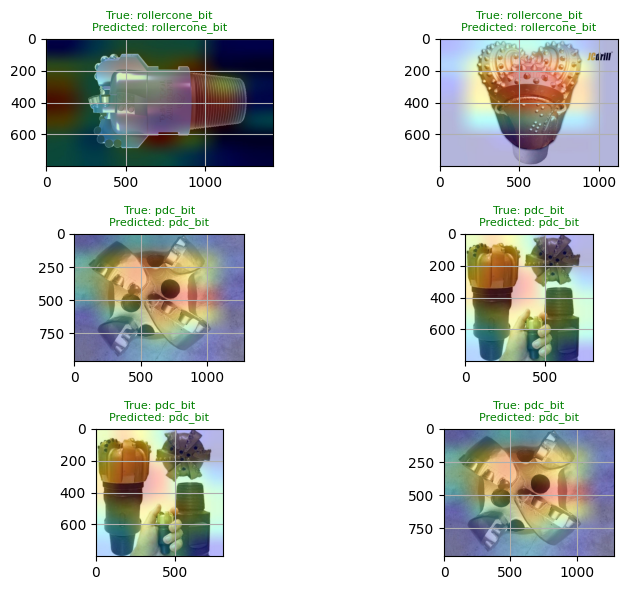
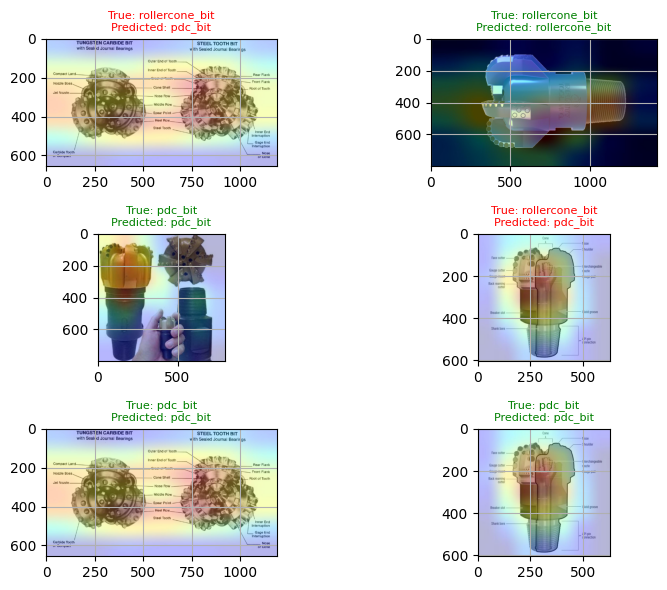
add skit

diff --git a/neural_network_model/supervise_learning.py b/neural_network_model/supervise_learning.py
@@ -603,12 +603,12 @@ if __name__ == "__main__":
         (Path(__file__).parent / ".." / "dataset" / "pdc_bit" / "Image_1.png")
     )
 
-    # # Apply hessian filter
-    # hessian_features = obj.hessian_filter_feature_extraction(
-    #     image_path, plt_show=True, plt_log=True
-    # )
-    # print(hessian_features)
-    #
+    # Apply hessian filter
+    hessian_features = obj.hessian_filter_feature_extraction(
+        image_path, plt_show=True, plt_log=True, cmap="seismic",
+    )
+    print(hessian_features)
+
     # # # # Apply Sato filter
     # sato_features = obj.frangi_feature_extraction(
     #     image_path, plt_show=True, plt_log=True
